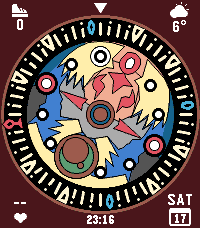
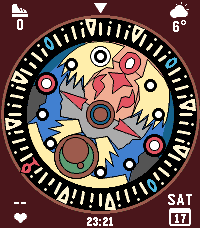
Center the digital time between ring and screen edge

diff --git a/src/c/main.c b/src/c/main.c
@@ -496,7 +496,7 @@ static void draw_pointer(GContext *ctx) {
 static void draw_time_text(GContext *ctx) {
   graphics_context_set_text_color(ctx, C_INFO);
   graphics_draw_text(ctx, s_time, fonts_get_system_font(FONT_KEY_GOTHIC_14_BOLD),
-                     GRect(s_center.x - 25, s_center.y + R_OUTER - 3, 50, 16),
+                     GRect(s_center.x - 25, s_center.y + R_OUTER - 1, 50, 16),
                      GTextOverflowModeFill, GTextAlignmentCenter, NULL);
 }
 
